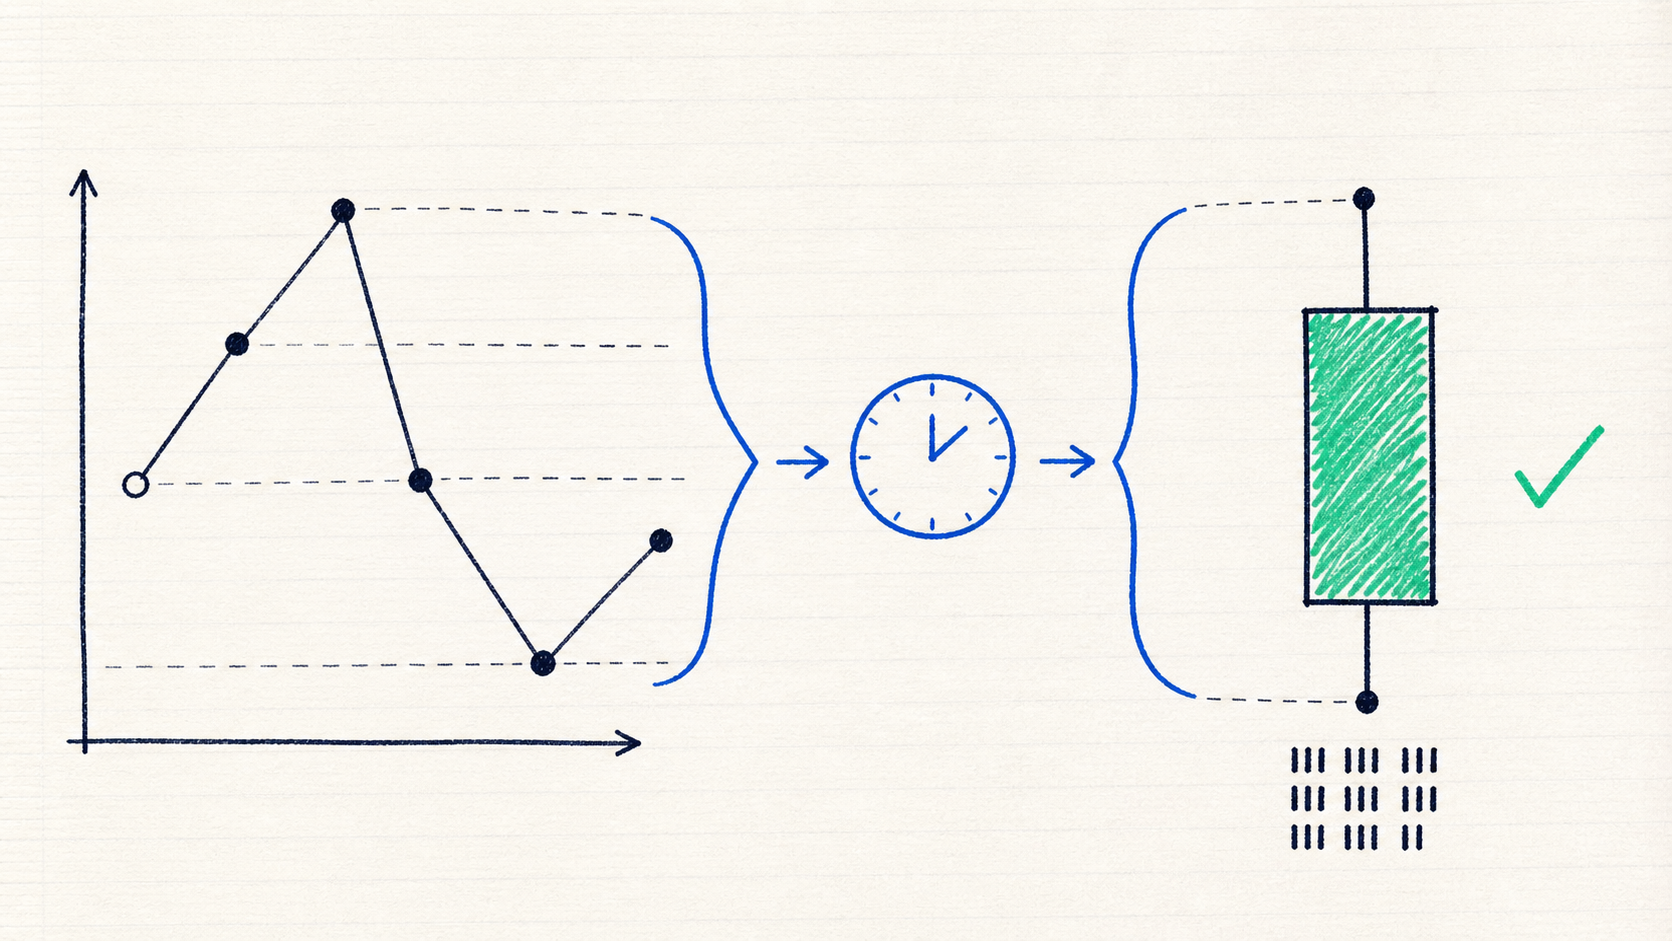
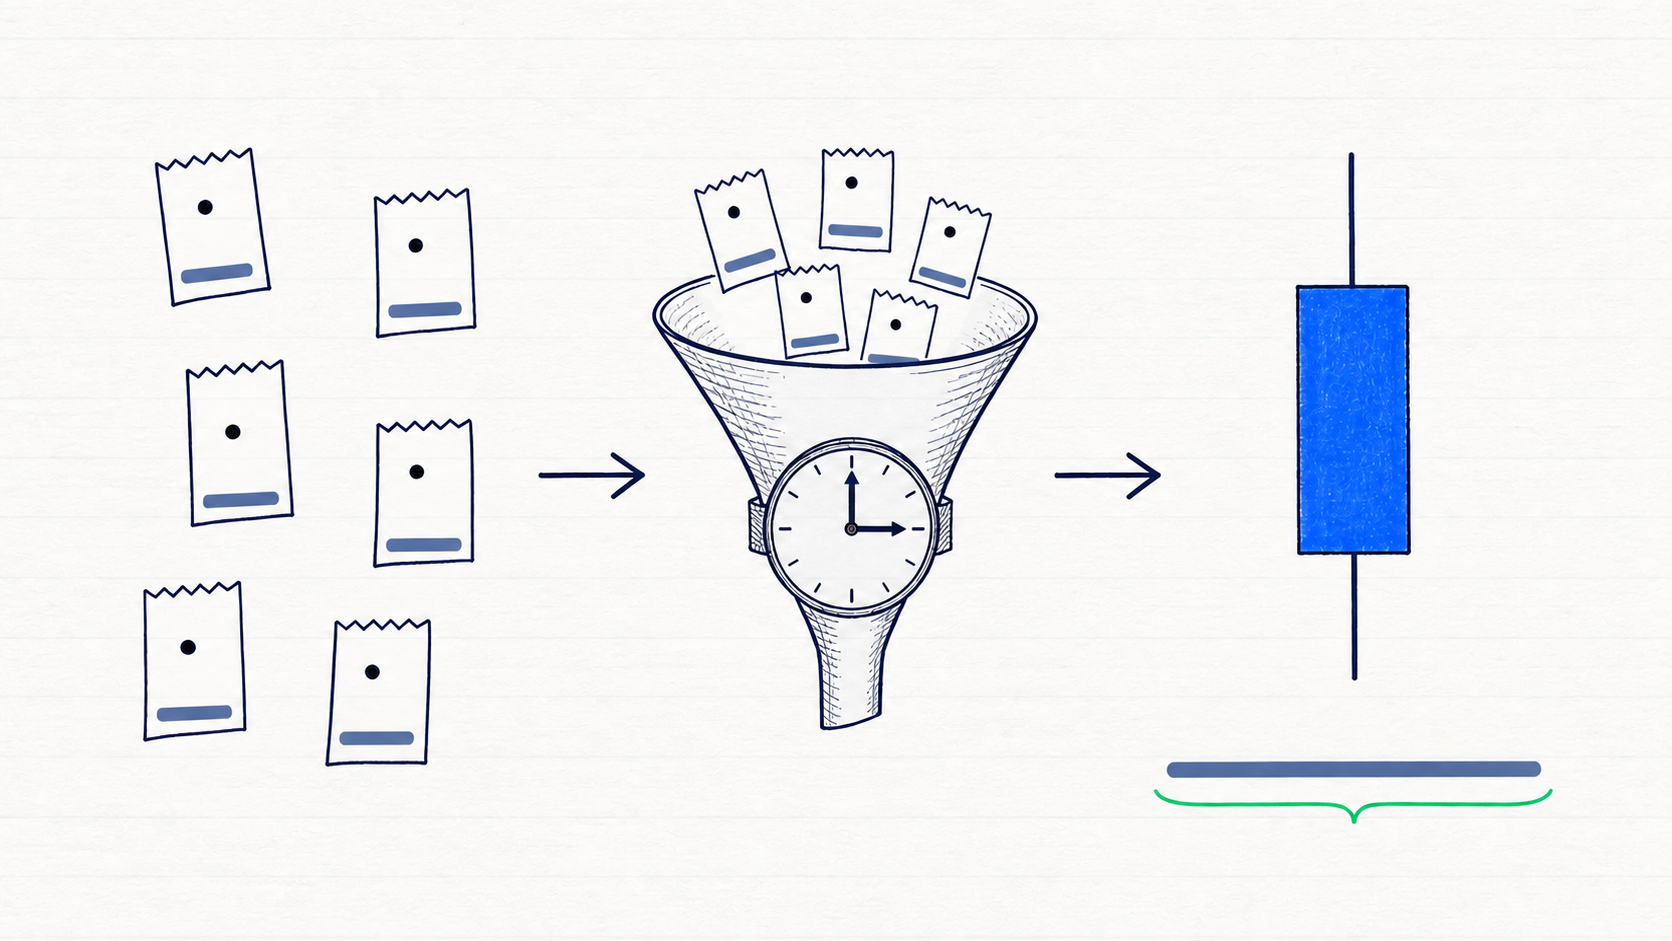
fix(docs): 분봉 삽화 의미 오류 교정
캔들 몸통을 단색으로 바꾸고 OHLCV 삽화에서 잘못된 좌표·수량 합계 해석 가능성을 제거한다.

사용 권리 항목을 빈 확인란으로 바꿔 실제 계약 승인처럼 보이지 않도록 한다.

diff --git a/docs/blog/minute-candles/assets/GENERATED-IMAGE-PROMPTS.md b/docs/blog/minute-candles/assets/GENERATED-IMAGE-PROMPTS.md
@@ -7,7 +7,7 @@
 - 공통 목적: 어려운 개념을 쉽게 설명하는 삽화
 - 제외 범위: 실제 실행 증거, 공급자 성능, 계약 승인, 운영 배포 상태
 
-원본 이미지를 편집하지 않고 네 장 모두 새로 생성했습니다. 설명용 삽화에는 실제 측정 수치와 공급자 로고를 넣지 않았습니다.
+네 장 모두 ImageGen으로 생성했습니다. 최종 검수에서 썸네일의 캔들 색과 사용 권리 삽화의 승인 표현을 편집했고, OHLCV 삽화는 좌표 관계를 오해하지 않도록 초안을 폐기한 뒤 새로 생성했습니다. 설명용 삽화에는 실제 측정 수치와 공급자 로고를 넣지 않았습니다.
 
 ## `thumbnail-minute-candles-final.png`
 
@@ -21,16 +21,51 @@ STYLE: A developer's real notebook sketch / hand-drawn technical note, modest an
 AVOID: futuristic dashboard, neon, gradients, glassmorphism, 3D, photorealism, rockets, stars, robots, glowing effects, heavy shadows, excessive cards or badges, corporate advertising, dense text, fake code, gibberish, logos, watermarks.
 ```
 
+### 최종 교정 프롬프트
+
+```text
+Edit this existing 16:9 hand-drawn developer-blog thumbnail with one precise correction only.
+
+KEEP: the exact Korean title "주식 1분봉 만들기", all lettering, paper texture, timestamps, clock, database, phone, arrows, layout, crop, margins, hand-drawn navy pen style, and all other objects unchanged.
+
+CHANGE ONLY THE SINGLE LARGE CANDLE BETWEEN THE CLOCK AND DATABASE: it currently has one body split into red on top and blue on bottom, which is financially misleading. Replace it with one normal candlestick using a single solid muted blue fill for the entire rectangular body, with one continuous upper wick and one continuous lower wick in navy. Do not split the body, do not add another candle, and do not alter the small phone chart.
+
+Do not add or remove any text. Preserve the exact 16:9 composition and title spelling.
+```
+
 ## `06-ticks-to-ohlcv.png`
 
 ```text
-Create a 16:9 landscape scientific-educational illustration for a Korean developer blog.
+Create a brand-new 16:9 landscape scientific-educational illustration for a Korean developer blog.
 
-CONCEPT: Several individual stock trades inside one minute are summarized into one OHLCV candlestick.
-COMPOSITION: Bright off-white lightly textured notebook paper. On the left, draw six small trade points on a simple price-over-time sketch. Make the first point an open circle, the last point a filled circle, with one obvious highest point and one obvious lowest point. In the center, gather them with a loose hand-drawn brace or funnel into a small analog one-minute clock. On the right, draw one large accurate candlestick: the body visually spans the first and last trade prices, the upper and lower wicks reach the highest and lowest points, and a small stack of tally marks or blocks below represents the summed volume. Use simple arrows and generous whitespace. Keep all key content within the central 80% and 8% safe margins.
-STYLE: A real developer's study notebook, slightly uneven black/navy ballpoint strokes, subtle blue (#2563EB) aggregation marks, one small green (#10B981) accent on the completed result. Clean enough to teach, visibly hand-drawn rather than vector-perfect.
-TEXT: No words, no letters, no numbers, no timestamps, no labels, no equations, no pseudo-writing, no logos, no watermark.
-AVOID: dashboards, multiple candlestick charts, moving-average lines, coins, currency symbols, company logos, 3D, gradients, neon, glass cards, glossy corporate infographic style, dense decoration, impossible axes, polished vector geometry.
+CONCEPT ONLY: Many individual stock trades recorded during one minute are gathered and summarized into one standard candlestick plus total volume. Do NOT attempt to map plotted point heights to candle edges; the accompanying table explains the exact OHLC calculation.
+
+COMPOSITION: Bright off-white lightly textured notebook paper. On the left, draw six separate small trade-record tokens arranged loosely in time order. Each token is only a tiny outlined receipt shape containing one simple price dot and one small quantity tally—no words or numbers. Do not connect the tokens into a line graph. In the center, draw a clear hand-drawn funnel wrapped by a small analog one-minute clock, gathering all six tokens. On the right, draw one normal standard candlestick with a single solid muted blue rectangular body and one continuous upper wick and lower wick, plus a separate neat row of tally marks underneath for total volume. Use simple left-to-right arrows and generous whitespace. Keep all important content inside the central 80% with 8% safe margins.
+
+STYLE: A real developer's study notebook, slightly uneven black/navy ballpoint strokes, restrained blue (#2563EB), and a tiny green (#10B981) accent on the completed grouping. Clean but visibly hand drawn, not vector-perfect.
+
+ACCURACY: exactly one candlestick; its body must be a single color, never split; volume must be visibly separate below it; no moving-average line; no connected price line; no check mark or approval symbol.
+
+TEXT: No words, letters, numbers, timestamps, labels, equations, logos, pseudo-writing, or watermark.
+
+AVOID: dashboards, multiple charts, coins, currency symbols, company logos, 3D, gradients, neon, glass cards, corporate infographic styling, dense decoration, fake axes, and any visual claim that token heights directly align with candle edges.
+```
+
+### 최종 교정 프롬프트
+
+```text
+Edit this existing 16:9 hand-drawn trade-tokens-to-candlestick illustration with one precise correction to avoid a false arithmetic claim.
+
+KEEP: off-white notebook paper, six receipt-like trade tokens on the left, their price dots, central funnel and one-minute clock, arrows, single solid blue candlestick with upper/lower wick, hand-drawn navy/blue style, layout, crop, margins, and generous whitespace.
+
+CHANGE THE VOLUME SYMBOLS ONLY:
+- Inside every trade token, remove all countable tally marks.
+- Replace those tally marks with one simple solid muted-blue horizontal quantity bar. Let the six bars have visibly different lengths, but none may contain segments, ticks, numbers, or countable units.
+- Under the completed candlestick, remove all countable tally marks.
+- Replace them with one single long muted-blue horizontal volume bar, with the existing small green brace underneath if helpful.
+- The result should communicate "different trade quantities are combined into total volume" without allowing the viewer to count units or infer a numeric sum.
+
+Do not add text, letters, numbers, labels, check marks, logos, or watermarks. Do not change the candle or any other object. Preserve exact 16:9 composition and the developer-notebook style.
 ```
 
 ## `07-rights-before-speed.png`
@@ -43,6 +78,18 @@ COMPOSITION: On bright white lightly textured notebook paper, show three small u
 STYLE: Human developer notebook sketch, slightly uneven black/navy ink lines, restrained blue (#2563EB), green (#10B981), and a tiny yellow accent (#F59E0B), generous whitespace, simple and educational.
 TEXT: No words, no letters, no numbers, no labels, no logos, no pseudo-text, no watermark.
 AVOID: corporate infographic cards, futuristic dashboards, neon, gradients, glassmorphism, 3D, photorealistic hands, robots, rockets, glowing effects, stock exchange logos, brand marks, dense decorations, glossy advertising.
+```
+
+### 최종 교정 프롬프트
+
+```text
+Edit this existing 16:9 hand-drawn market-data permission illustration with one semantic correction.
+
+KEEP: the white ruled notebook paper, three unbranded input plugs on the left, the central document gate, database/screen/people icons, yellow highlighter, keyhole, arrow to stopwatch and speed gauge, hand-drawn navy/blue style, crop, spacing, and all other objects.
+
+CHANGE: remove every green approval check mark from the document. Replace each of the three check marks with an EMPTY outlined checkbox or empty outlined circle in dark navy. Add one small hand-drawn magnifying glass resting beside the document to make the meaning "questions that must be investigated," not "permissions already approved." The gate must remain visually closed/conditional and must not look like an official license certificate.
+
+Do not add words, letters, numbers, logos, seals, signatures, approval badges, or watermarks. Keep the exact 16:9 composition and the same simple developer-notebook style.
 ```
 
 ## `08-one-source-many-users.png`

diff --git a/docs/blog/minute-candles/README.md b/docs/blog/minute-candles/README.md
@@ -46,9 +46,9 @@
 | 종가(close) | 그 분에 가장 나중에 체결된 가격 | 69,800원 |
 | 거래량(volume) | 체결 수량의 합 | 23주 |
 
-![여러 체결의 첫 가격과 마지막 가격, 최고와 최저, 거래량을 한 개의 1분봉으로 요약하는 손그림](assets/06-ticks-to-ohlcv.png)
+![여러 체결 기록이 1분 동안 모여 한 개의 캔들과 거래량으로 요약되는 손그림](assets/06-ticks-to-ohlcv.png)
 
-*설명용 삽화 — 첫 가격과 마지막 가격은 몸통을, 최고·최저 가격은 꼬리를 만들고 체결 수량의 합은 거래량이 됩니다. 실제 시세나 측정 결과를 나타내지 않습니다.*
+*설명용 삽화 — 여러 체결을 한 분 동안 모아 캔들 한 개와 거래량으로 요약하는 개념을 단순화했습니다. 실제 계산은 바로 위 표처럼 첫·최고·최저·마지막 가격과 수량 합으로 구하며, 이 그림은 실제 시세나 측정 결과가 아닙니다.*
 
 이 다섯 값을 영문 첫 글자로 묶어 `OHLCV`라고 부릅니다. 처음에는 약어보다 “여러 체결을 한 줄로 요약한다”는 뜻을 이해하는 편이 도움이 됐습니다.
 
@@ -92,7 +92,7 @@ KRX 정규장은 09시부터 15시 30분까지 390분입니다. 다섯 종목을
 
 ![시세 API 후보를 비교할 때 저장과 화면 표시 권리를 먼저 확인하고 그 뒤 속도를 재는 손그림](assets/07-rights-before-speed.png)
 
-*설명용 삽화 — API 속도를 재기 전에 받은 시세를 저장하고 여러 사용자에게 보여줄 수 있는지부터 확인했습니다. 공급자의 실제 성능을 측정한 결과는 아닙니다.*
+*설명용 삽화 — API 속도를 재기 전에 받은 시세를 저장하고 여러 사용자에게 보여줄 수 있는지부터 확인했습니다. 빈 확인란은 조사할 항목을 뜻하며, 실제 사용 허가나 계약 승인을 받았다는 의미가 아닙니다. 공급자의 실제 성능을 측정한 결과도 아닙니다.*
 
 이번에는 KIS, 키움, LS, KRX 무료 API와 정식 시장 데이터 경로를 다음 기준으로 비교했습니다.
 
